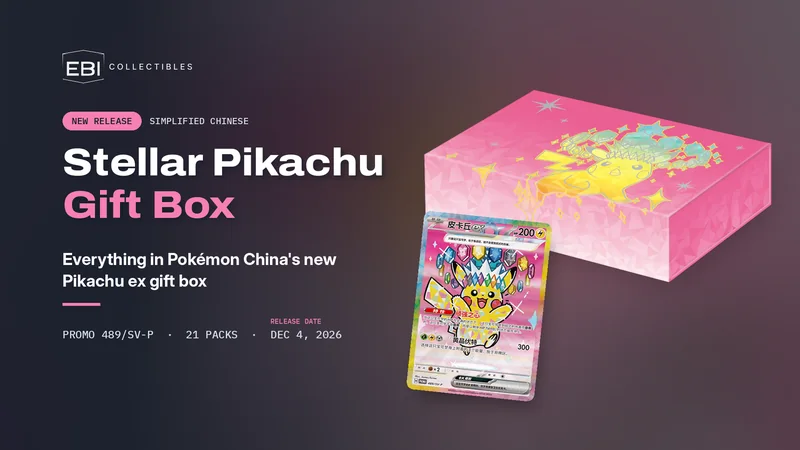
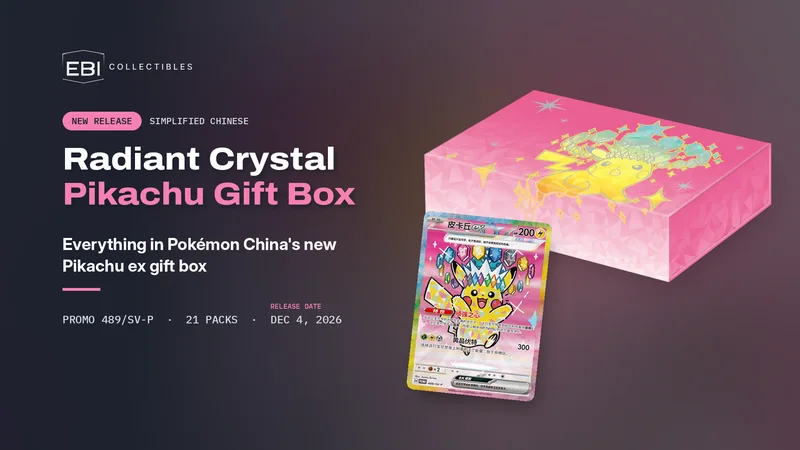
Pikachu gift box post: lead with the Radiant Crystal name, same links
Title, search text, headings, banner and social banner now say Radiant
Crystal Pikachu Gift Box. The page address and image filenames stay the
same so existing links and the X tracked link keep working.

Claude-Session: https://claude.ai/code/session_01NsqBWVpewSSNZvYTNoL461

Changed region(s): [[0.0625, 0.3111, 0.5, 0.4978], [0.0625, 0.5289, 0.4375, 0.7778], [0.2188, 0.6533, 0.4375, 0.7467]]

diff --git a/src/routes/blog/pikachu-gift-box-release-news.tsx b/src/routes/blog/pikachu-gift-box-release-news.tsx
@@ -40,7 +40,7 @@ const CONTENTS = [
 ]
 
 const TOC = [
-  { id: 'what-it-is', label: 'What is the Chinese Pikachu gift box?' },
+  { id: 'what-it-is', label: 'What is the Radiant Crystal Pikachu gift box?' },
   { id: 'contents', label: 'What comes inside?' },
   { id: 'promo', label: 'The Pikachu ex promo card' },
   { id: 'packs', label: 'The 21 booster packs' },
@@ -54,11 +54,11 @@ const TOC = [
 
 const FAQ = [
   {
-    q: 'What is the Chinese Pikachu gift box?',
+    q: 'What is the Radiant Crystal Pikachu gift box?',
     a: 'An official Pokémon TCG gift box from Pokémon China, themed on Pikachu with the Stellar Tera Type. Its Chinese name is 璀璨晶耀 皮卡丘专属礼盒. It holds a Pikachu ex promo card, 21 booster packs, 64 sleeves, a deck box and a card display frame.',
   },
   {
-    q: 'When does the Pikachu gift box release in China?',
+    q: 'When does the Radiant Crystal Pikachu gift box release?',
     a: 'December 4, 2026, from 10:00 China time. Pokémon China announced it on November 20, 2026.',
   },
   {
@@ -79,14 +79,14 @@ const FAQ = [
   },
   {
     q: 'What is the Pikachu gift box called in Chinese?',
-    a: '璀璨晶耀 皮卡丘专属礼盒. It translates roughly as Brilliant Crystal Shine: Pikachu Exclusive Gift Box. There is no official English name, so you will also see it called the Radiant Crystal Pikachu Gift Box, the Pikachu Exclusive Gift Box or the Stellar Pikachu Gift Box. It is not the older Radiant Energy Pikachu gift box from 2024.',
+    a: '璀璨晶耀 皮卡丘专属礼盒. It translates roughly as Brilliant Crystal Shine: Pikachu Exclusive Gift Box. There is no official English name, most shops call it the Radiant Crystal Pikachu Gift Box. You may also see the Pikachu Exclusive Gift Box or the Stellar Pikachu Gift Box. It is not the older Radiant Energy Pikachu gift box from 2024.',
   },
   {
-    q: 'Can I pre-order the Chinese Pikachu gift box?',
+    q: 'Can I pre-order the Radiant Crystal Pikachu gift box?',
     a: 'We plan to open pre-orders at EBI Collectibles. Leave your email in the pre-orders section of this post and we will write to you as soon as they open. We will announce our price closer to the release date.',
   },
   {
-    q: 'How much will the Chinese Pikachu gift box cost?',
+    q: 'How much will the Radiant Crystal Pikachu gift box cost?',
     a: 'We have not set our price yet. We will announce it closer to the release date on December 4, 2026, and email everyone who signed up in the pre-orders section of this post.',
   },
   {
@@ -152,7 +152,7 @@ function PikachuGiftBoxPost() {
   const contentsJsonLd = {
     '@context': 'https://schema.org',
     '@type': 'ItemList',
-    name: 'What comes in the Chinese Stellar Pikachu gift box',
+    name: 'What comes in the Chinese Radiant Crystal Pikachu gift box',
     numberOfItems: CONTENTS.length,
     itemListElement: CONTENTS.map((c, i) => ({ '@type': 'ListItem', position: i + 1, name: `${c.qty} x ${c.item}` })),
   }
@@ -166,7 +166,7 @@ function PikachuGiftBoxPost() {
         updated={status.liveAt}
         wide
         post={post}
-        lede="Pokémon China's new Pikachu gift box releases on December 4, 2026. This post covers everything in the Chinese Pikachu Exclusive Gift Box: the Stellar Pikachu ex promo, the 21 booster packs from this year's seven sets, and the matching accessories."
+        lede="Pokémon China's Radiant Crystal Pikachu gift box releases on December 4, 2026. This post covers everything in it: the Stellar Tera Pikachu ex promo, the 21 booster packs from this year's seven sets, and the matching accessories."
         cta={{
           heading: 'See the sets inside the box',
           body: 'Every one of the seven sets has a full card list and checklist.',
@@ -176,11 +176,12 @@ function PikachuGiftBoxPost() {
           ],
         }}
       >
-        <h2 id="what-it-is">What is the Chinese Pikachu gift box?</h2>
+        <h2 id="what-it-is">What is the Radiant Crystal Pikachu gift box?</h2>
         <p>
           It is an official Simplified Chinese Pokémon TCG gift box from Pokémon China, announced on November 20, 2026, and releasing on December 4,
           2026. Its Chinese name is <Zh>璀璨晶耀 皮卡丘专属礼盒</Zh>, which translates roughly as Brilliant Crystal Shine: Pikachu
-          Exclusive Gift Box. It is part of the Scarlet &amp; Violet series.
+          Exclusive Gift Box. Shops in the US sell it as the Radiant Crystal Pikachu Gift Box. It is part of the Scarlet &amp; Violet
+          series.
         </p>
         <p>
           The box is themed on Pikachu with the Stellar Tera Type, the crowned, jewelled Pikachu that is also on the Stellar Crystal pack.
@@ -192,7 +193,7 @@ function PikachuGiftBoxPost() {
           <strong>Pre-orders will be available at EBI Collectibles.</strong> <a href="#pre-orders">Get an email when they open</a>.
         </p>
 
-        <aside className="fact-box" aria-label="Stellar Pikachu gift box key facts">
+        <aside className="fact-box" aria-label="Radiant Crystal Pikachu gift box key facts">
           {/* Same card as in the promo section below, where it is described, so this copy is decorative */}
           <img src={img('pikachu-ex-promo')} alt="" loading="lazy" width={788} height={1100} />
           <div>
@@ -236,7 +237,7 @@ function PikachuGiftBoxPost() {
         <div className="table-scroll" role="group" aria-labelledby="tbl-contents" tabIndex={0}>
           <table className="data-table">
             <caption id="tbl-contents" className="sr-only">
-              Contents of the Stellar Pikachu gift box
+              Contents of the Radiant Crystal Pikachu gift box
             </caption>
             <thead>
               <tr>
@@ -298,7 +299,7 @@ function PikachuGiftBoxPost() {
         <div className="table-scroll" role="group" aria-labelledby="tbl-packs" tabIndex={0}>
           <table className="data-table">
             <caption id="tbl-packs" className="sr-only">
-              Booster packs in the Stellar Pikachu gift box
+              Booster packs in the Radiant Crystal Pikachu gift box
             </caption>
             <thead>
               <tr>
@@ -378,15 +379,15 @@ function PikachuGiftBoxPost() {
           the Pikachu on the box shine.
         </p>
         <figure style={{ margin: '28px auto', maxWidth: 640 }}>
-          <img src={img('box')} alt="The pink Stellar Pikachu gift box, closed, with Pikachu printed in gold across the lid" loading="lazy" width={1100} height={612} style={{ width: '100%', height: 'auto' }} />
+          <img src={img('box')} alt="The pink Radiant Crystal Pikachu gift box, closed, with Pikachu printed in gold across the lid" loading="lazy" width={1100} height={612} style={{ width: '100%', height: 'auto' }} />
           <figcaption>The gift box.</figcaption>
         </figure>
 
         <h2 id="names">What is it called?</h2>
         <p>
           Pokémon China calls it <Zh>璀璨晶耀 皮卡丘专属礼盒</Zh>. There is no official English name. A close translation is Brilliant
-          Crystal Shine: Pikachu Exclusive Gift Box, and we call it the Stellar Pikachu Gift Box for short. Other shops list it as the
-          Radiant Crystal Pikachu Gift Box, the Chinese Pikachu Gift Box, the Pikachu Exclusive Gift Box or the Pikachu ex Gift Box.
+          Crystal Shine: Pikachu Exclusive Gift Box. Most shops call it the Radiant Crystal Pikachu Gift Box, and so do we. You may also
+          see the Stellar Pikachu Gift Box, the Chinese Pikachu Gift Box, the Pikachu Exclusive Gift Box or the Pikachu ex Gift Box.
           They are all the same product.
         </p>
         <p>
@@ -401,7 +402,7 @@ function PikachuGiftBoxPost() {
 
         <h2 id="pre-orders">Pre-orders at EBI Collectibles</h2>
         <p>
-          We plan to open pre-orders for the Pikachu gift box here at EBI Collectibles. Leave your email below and we will write to
+          We plan to open pre-orders for the Radiant Crystal Pikachu gift box here at EBI Collectibles. Leave your email below and we will write to
           you as soon as they open. Orders ship from the US.
         </p>
         <p>We will announce our price closer to the release date on December 4, 2026.</p>

diff --git a/src/data/blog-posts.ts b/src/data/blog-posts.ts
@@ -304,16 +304,16 @@ export const BLOG_POSTS: BlogPostSummary[] = [
   {
     slug: 'pikachu-gift-box-release-news',
     path: '/blog/pikachu-gift-box-release-news',
-    title: 'Chinese Pikachu Gift Box: Everything Inside, the Pikachu ex Promo and the Release Date',
+    title: 'Radiant Crystal Pikachu Gift Box (Chinese): Everything Inside, the Pikachu ex Promo and the Release Date',
     excerpt:
-      "Pokémon China's new Pikachu gift box releases on December 4, 2026. This post covers everything in the Chinese Pikachu Exclusive Gift Box: the Stellar Pikachu ex promo, the 21 booster packs from this year's seven sets, and the matching accessories.",
-    seoTitle: 'Chinese Pikachu Gift Box: Contents, Promo & Release Date',
+      "Pokémon China's Radiant Crystal Pikachu gift box releases on December 4, 2026. This post covers everything in it: the Stellar Tera Pikachu ex promo, the 21 booster packs from this year's seven sets, and the matching accessories.",
+    seoTitle: 'Radiant Crystal Pikachu Gift Box (Chinese): Contents & Release',
     seoDescription:
-      'The Chinese Pokémon TCG Pikachu Exclusive Gift Box releases December 4, 2026: Stellar Pikachu ex promo 489/SV-P, 21 booster packs, sleeves and a deck box.',
+      'The Chinese Pokémon TCG Radiant Crystal Pikachu Gift Box releases December 4, 2026: Pikachu ex promo 489/SV-P, 21 booster packs, sleeves and a deck box.',
     tag: 'New release',
     date: '2026-11-20',
     heroImage: `${SITE_URL}/assets/blog/pikachu-gift-box-release-hero-v1.webp`,
-    heroAlt: 'The pink Stellar Pikachu gift box with the Pikachu ex promo card standing in front of it',
+    heroAlt: 'The pink Radiant Crystal Pikachu gift box with the Pikachu ex promo card standing in front of it',
     glow1: 'rgb(246 128 176 / .30)',
     glow2: 'rgb(246 206 60 / .22)',
   },
